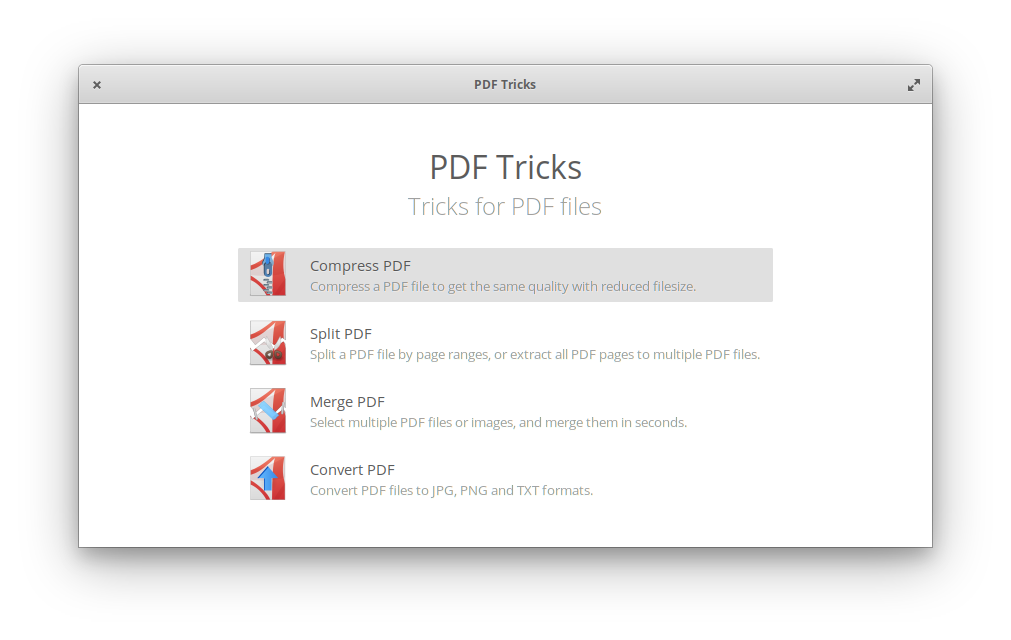
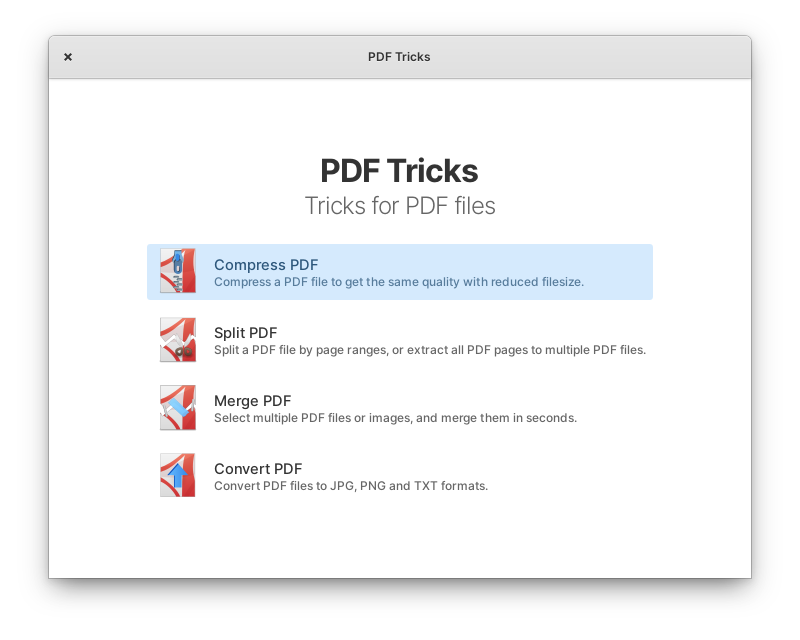
Update Screenshots

Changed region(s): [[0.0312, 0.0625, 0.9688, 0.9375], [0.1562, 0.375, 0.8438, 0.7812], [0.375, 0.2188, 0.625, 0.3438]]

diff --git a/README.md b/README.md
@@ -24,6 +24,12 @@ A simple, efficient application for small manipulations in PDF files.
 
 ![Screenshot](data/screenshot2.png)
 
+![Screenshot](data/screenshot3.png)
+
+![Screenshot](data/screenshot4.png)
+
+![Screenshot](data/screenshot5.png)
+
 
 [![Get it on AppCenter](https://appcenter.elementary.io/badge.svg)](https://appcenter.elementary.io/com.github.muriloventuroso.pdftricks)
 
